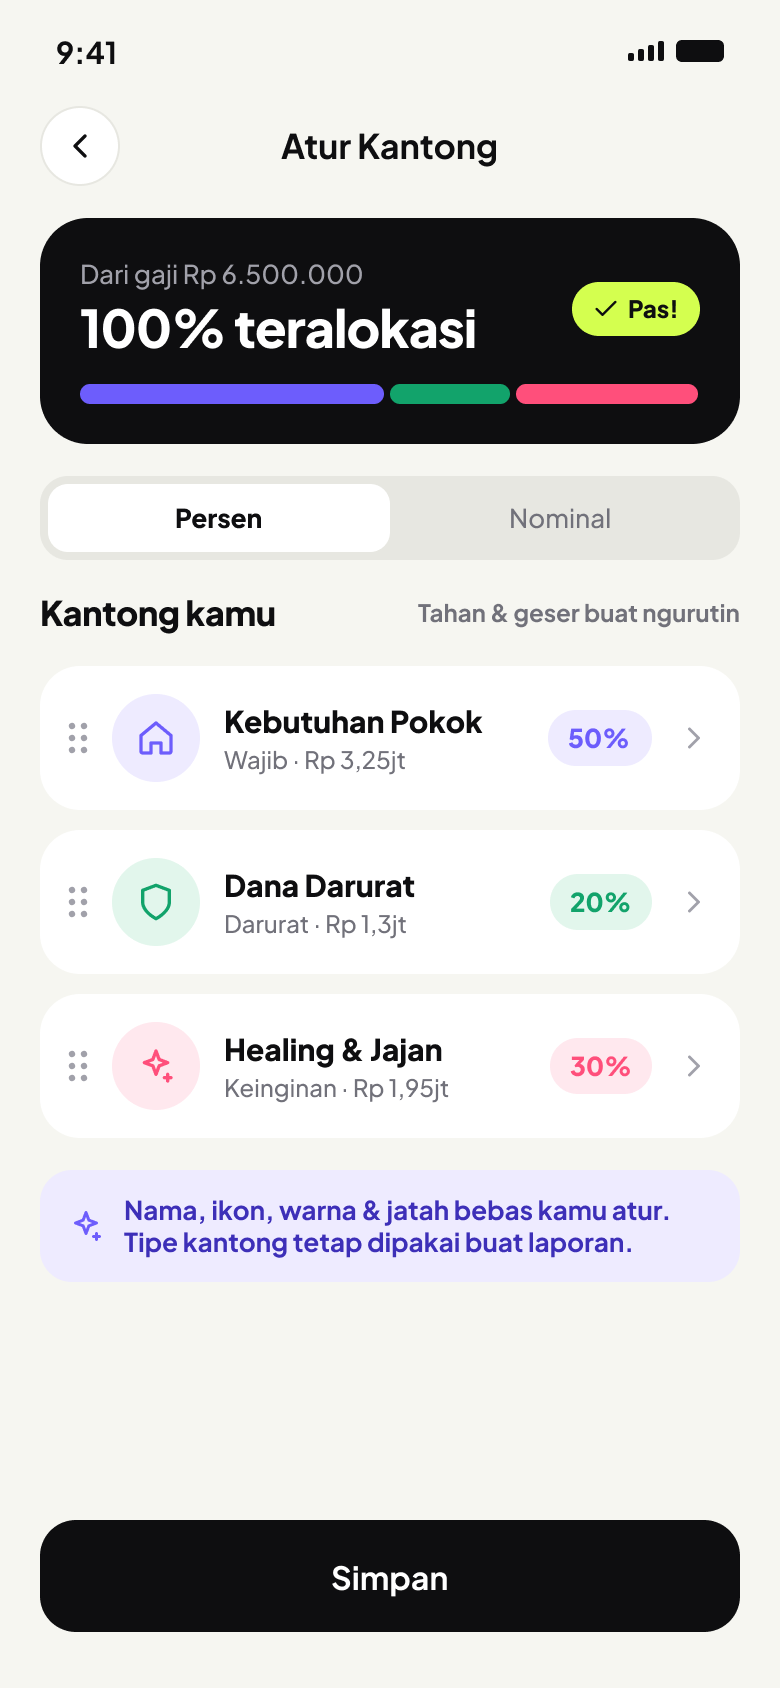
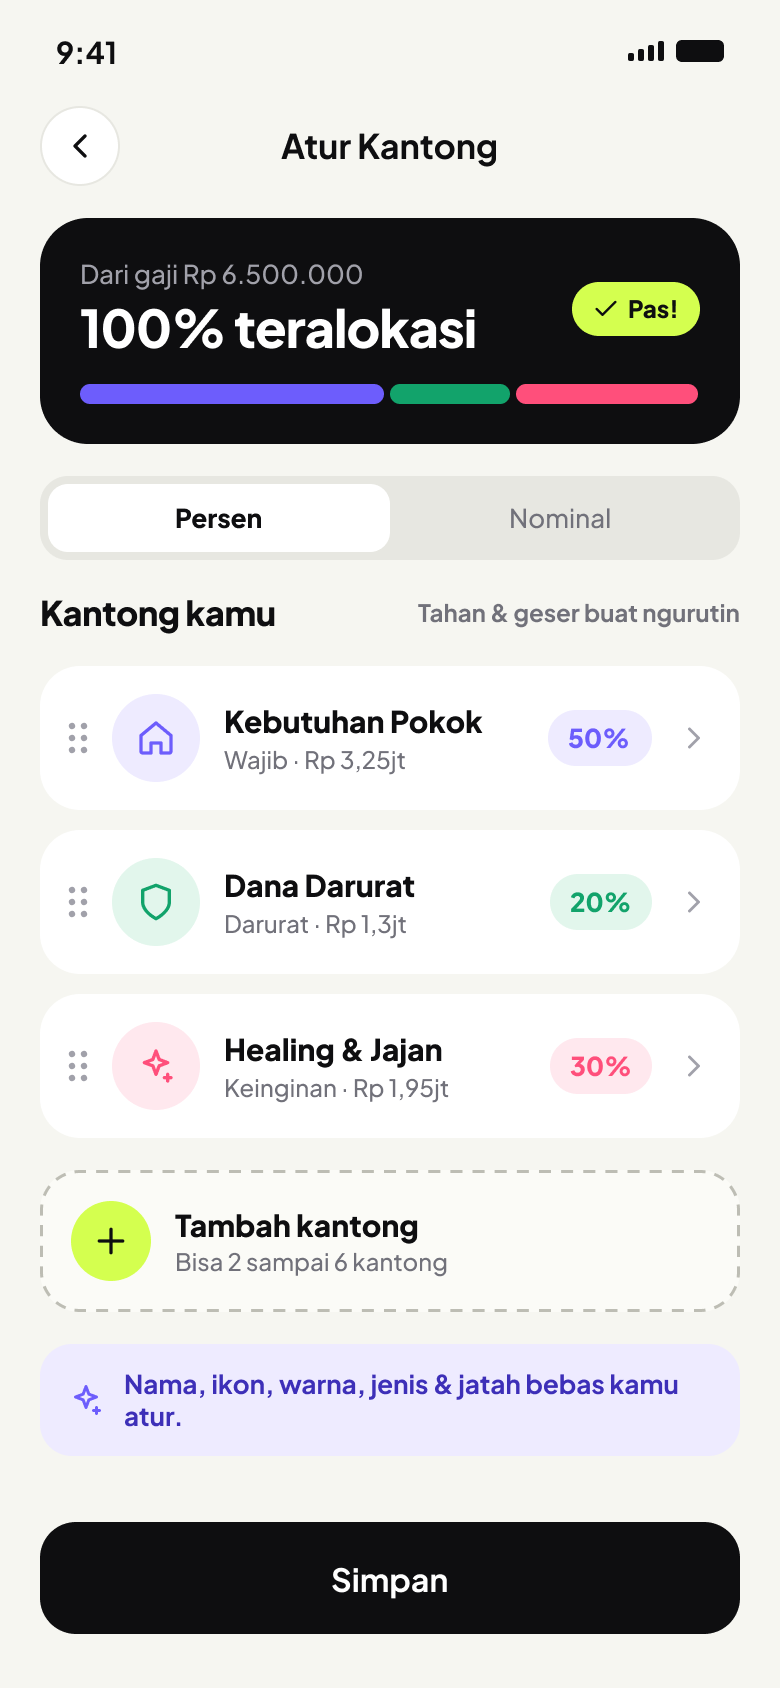
Desain: saldo awal saat daftar & kantong bebas 2-6
Layar baru 42 Uang Kamu Sekarang (saldo awal dibagi ke kantong, bukan gaji
penuh), 43 Bikin Kantong Sendiri, 45 Hapus Kantong. Layar 19/20/21
diperbarui: Bikin sendiri aktif, Tambah kantong, pilihan Jenis & tombol hapus.

diff --git a/design/DESIGN.md b/design/DESIGN.md
@@ -145,14 +145,17 @@ File PNG: `screens/NN-nama.png` (lihat [`screens/README.md`](screens/README.md))
 ### Kustomisasi kantong & detail lainnya
 | # | Layar | Isi kunci |
 |---|---|---|
-| 19 | Pilih template | Klasik 50/20/30 (Populer), Anak Kos 60/15/25, Pejuang Nabung 45/35/20, Bikin sendiri |
-| 20 | Atur kantong | Ringkasan "100% teralokasi", mode Persen/Nominal, daftar kantong (drag handle, % pill), tips |
-| 21 | Edit kantong | Preview, input nama (maks 20 karakter), 8 ikon, 7 warna, baris Jatah & rentang |
+| 19 | Pilih template | Klasik 50/20/30 (Populer), Anak Kos 60/15/25, Pejuang Nabung 45/35/20, Bikin sendiri ("2 sampai 6 kantong, atur sesukamu" → 43). Pakai template ini → 42 |
+| 20 | Atur kantong | Ringkasan "100% teralokasi", mode Persen/Nominal, daftar kantong (drag handle, % pill), kartu putus-putus **Tambah kantong** (hilang saat sudah 6), tips |
+| 21 | Edit kantong | Top bar dengan ikon hapus merah (mati saat tinggal 2 kantong) → 45. Preview (subjudul = jenis), input nama (maks 20 karakter), 8 ikon, 7 warna, **Jenis** (Wajib / Darurat / Keinginan), baris Jatah & rentang. Juga dipakai untuk kantong baru |
 | 22 | Atur jatah & rentang | Nominal besar, slider %, chip cepat, **rentang min–maks**, aturan (ingetin < 20%, sisa → Dana Darurat) |
 | 23 | Alokasi kelebihan | State error: 110%, kartu merah, "Rapiin otomatis", tombol Simpan disabled |
 | 24 | Kantong hampir habis | Bottom sheet di atas Beranda: tinggal 15%, Pindahin / Oke siap hemat |
 | 25 | Pindahin saldo | Dari → Ke (kantong), nominal, chip cepat, peringatan dana darurat |
 | 26 | Catatan kosong | Empty state "Nggak ada jajan hari ini!" |
+| 42 | Uang kamu sekarang (onboarding, langkah 5 dari 5) | "Uang kamu sekarang berapa?", total rekening + e-wallet + tunai, nominal besar + keypad, kartu "Langsung dibagi ke N kantong" (bar + persen · nominal), info gajian berikutnya, Mulai catat → 35. Saldo awal ini yang dibagi ke kantong, bukan gaji penuh; gajian berikutnya dibagi normal |
+| 43 | Bikin kantong sendiri (onboarding) | Ringkasan "100% teralokasi" + bar, "N kantong · Maks 6", daftar kantong (ikon, nama, jenis · nominal, % pill) → 21, kartu Tambah kantong, Pakai kantong ini → 42 |
+| 45 | Hapus kantong | Bottom sheet di atas 21: "Hapus <nama>?", sisa saldo & jumlah catatan dipindah ke kantong pilihan (chip), Hapus & pindahin (merah) / Batal |
 | 32 | Beranda (penghasilan tidak tetap) | Kartu "Saldo kamu sekarang" + "Masuk bulan ini", 2 kartu cepat Scan struk & Tambah pemasukan. **Tanpa** tombol "+ Pemasukan" di kartu saldo (dobel dengan kartu Tambah pemasukan; keputusan 26 Sep 2026, PNG lama masih menampilkannya) |
 
 ---
@@ -163,7 +166,7 @@ File PNG: `screens/NN-nama.png` (lihat [`screens/README.md`](screens/README.md))
 User { id, nama, email, avatar }
 Gaji { userId, nominalBersih, tanggalGajian (1–31), autoTambah: bool, slipUrl? }
 Kantong {
-  id, userId, tipe: wajib|darurat|keinginan,   // tipe tetap, dipakai laporan
+  id, userId, tipe: wajib|darurat|keinginan,   // "Jenis", dipilih user; dipakai tebak scan, peringatan darurat & laporan
   nama (≤20), ikon, warna, urutan,
   mode: persen|nominal, persen?, nominal?,
   rentangMin?, rentangMaks?,
@@ -177,7 +180,7 @@ Transaksi {
 }
 PindahSaldo { id, userId, dariKantongId, keKantongId, nominal, tanggal }
 ```
-Aturan: total alokasi kantong **harus = 100%** (atau = gaji jika mode nominal) sebelum bisa disimpan (layar 23).
+Aturan: jumlah kantong **2 sampai 6** (keputusan 27 Sep 2026). Menghapus kantong memindahkan sisa saldo & riwayat catatannya ke kantong lain, tidak ada data yang hilang. Total alokasi kantong **harus = 100%** (atau = gaji jika mode nominal) sebelum bisa disimpan (layar 23).
 
 ---
 
